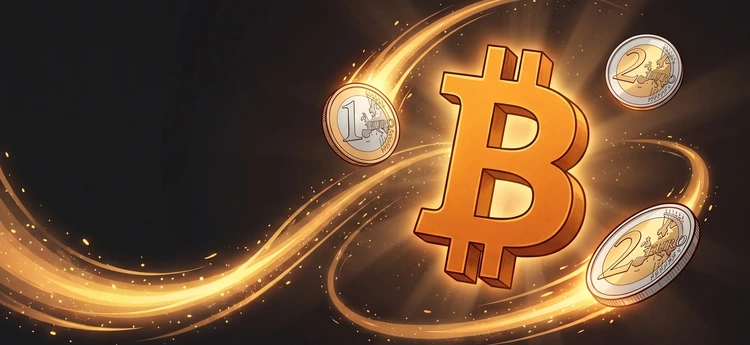
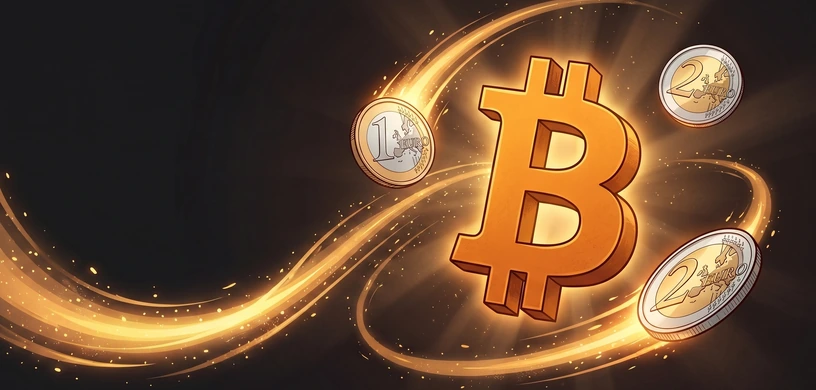
Le card «Da scoprire» crescono, e la misura la dice il CSS
Da 250x115 a 272x130 (decisione di Andrea: «un po' piu' grandi,
soprattutto piu' ALTE»), coi banner rigenerati dagli originali a
816x390. I due numeri sono MISURATI e non scelti a occhio.

IL VINCOLO NON ERA IL DISEGNO: crescendo in altezza non se ne perde,
se ne RECUPERA — gli originali sono 2752x1536 e il ritaglio ne usava
l'82% dell'altezza, adesso l'86% (a 250x115 il fondo della scatola
degli sconti era tagliato, e ora si vede intero). Il limite
dell'originale e' il rapporto 1,792, dove si comincerebbe a tagliare
in LARGHEZZA: siamo a 2,092.

IL VINCOLO E' LA FILA A 320px, e a decidere e' lo SPICCHIO della
seconda card — «il taglio al bordo dice che ce n'e' altre» e' una
promessa che si mantiene solo se resta abbastanza card da vedere. A
272 sono 24px, sopra i 20 che la .cat-strip accetta per la sua quarta
card; a 280 scenderebbero a 16, poco piu' del raggio dell'angolo.

IL PREZZO, misurato: dopo il tocco la griglia sopra la nav a 320x568
passa da 74 a 59px. Lo scroll AL REPARTO non si muove (235px prima e
dopo): quello e' ancorato alla riga «N oggetti», che sta sotto.

LA FASCIA DEL CONTRASTO MIGLIORA invece di peggiorare (11,8 / 12,0 /
14,8 contro 10,7 / 11,9 / 12,9): e' in px CSS mentre il disegno si
scala, quindi copre meno immagine e resta dov'e' scura. Per la stessa
ragione il «capolinea» del P2P si allontana, da 3 a 12px CSS.

E LA PROVA LEGGE LA MISURA DAL CSS invece di ribatterla: erano tre
numeri sparsi (750, 345, e il 115 dentro la fascia) e crescendo la
[…]

diff --git a/miniapp.html b/miniapp.html
@@ -886,12 +886,35 @@
      .cat-tile (griglia, piastrelle-colonna, velo sotto il nome). */
 
   /* ---------- «Da scoprire» ---------- */
-  /* La fila dei banner sotto le categorie: card rettangolari 250x115
+  /* La fila dei banner sotto le categorie: card rettangolari 272x130
      (decisione di Andrea: larghe, da banner — a 320px una quasi piena
      piu' uno spicchio della seconda, il taglio al bordo dice che ce
-     n'e' altre). Il testo sta DENTRO il disegno (750x345, colori
+     n'e' altre). Il testo sta DENTRO il disegno (816x390, colori
      fissi nei due temi come tutto cio' che vive su una foto):
-     l'etichetta la porta l'aria-label. Niente min-height sulla
+     l'etichetta la porta l'aria-label.
+     LA MISURA E' CRESCIUTA (ago 2026, da 250x115: decisione di Andrea
+     «un po' piu' grandi, soprattutto piu' ALTE»), e i due numeri che
+     la fissano sono MISURATI e non scelti a occhio.
+     IL VINCOLO NON E' IL DISEGNO — crescendo in ALTEZZA non se ne
+     perde, se ne RECUPERA: gli originali sono 2752x1536 (rapporto
+     1,792) e il ritaglio ne usava l'82% dell'altezza, adesso l'86%
+     (a 250x115 il fondo della scatola degli sconti era TAGLIATO, e
+     ora si vede intero). Il limite dell'originale e' il rapporto
+     1,792, sotto il quale si comincerebbe a tagliare in LARGHEZZA:
+     siamo a 2,092, lontani. Chi ricrescera' ancora rifaccia quel
+     conto, e sappia che il file a 3x non deve superare 2752 di
+     larghezza — cioe' una card larga 917, che nessuno vorra' mai.
+     IL VINCOLO E' LA FILA A 320px, e a decidere e' lo SPICCHIO della
+     seconda card: «il taglio al bordo dice che ce n'e' altre», qui
+     sopra, e' una promessa che si mantiene solo se resta abbastanza
+     card da vedere. Lo spicchio a 320 e' 296-W — a 272 sono 24px,
+     sopra i 20 che la .cat-strip accetta per la sua quarta card, e il
+     border-radius di 14 non se li mangia tutti. A 280 scenderebbero a
+     16, cioe' poco piu' del raggio: una scheggia, non una card.
+     IL PREZZO E' MISURATO e sta sotto: dopo il tocco la griglia sopra
+     la nav a 320x568 passa da 74 a 59px. Lo scroll AL REPARTO invece
+     non si muove di un pixel (235px prima e dopo) — quello e'
+     ancorato alla riga «N oggetti», che sta SOTTO questa sezione. Niente min-height sulla
      striscia, e la divergenza da .cat-strip e' voluta: le card
      spariscono quando non c'e' l'occasione, e uno spazio riservato
      per una cosa assente sarebbe un buco. */
@@ -905,8 +928,8 @@
     overscroll-behavior-x:contain;scrollbar-width:none;
     padding:8px var(--pad) 6px}
   .scoprire-strip::-webkit-scrollbar{display:none}
-  .scoprire-card{flex:0 0 auto;position:relative;width:250px;
-    aspect-ratio:250/115;border-radius:14px;overflow:hidden;
+  .scoprire-card{flex:0 0 auto;position:relative;width:272px;
+    aspect-ratio:272/130;border-radius:14px;overflow:hidden;
     background:var(--cat-fondo);cursor:pointer}
   .scoprire-card:active{transform:translateY(1px)}
   /* L'anello e' quello della card categoria accesa: stesso gesto
@@ -931,8 +954,11 @@
      l'origine al centro uno scale>=1 puo' solo ritagliare, mai
      scoprire, quindi il respiro parte da scale(1); e l'onda ruota
      un'immagine GIA' ingrandita del 5% — la rotazione di 0.8° scopre
-     negli angoli ~1.8px (250/2 x sin 0.8°), il 5% ne copre quasi 3
-     sul lato corto. Chi alza i gradi rifa' quel conto. */
+     negli angoli ~1,9px (272/2 x sin 0.8°), il 5% ne copre 3,25 sul
+     lato corto (130). Chi alza i gradi rifa' quel conto, che in
+     forma generale e' W/H < (scale-1)/sin(θ) = 3,58: crescendo in
+     ALTEZZA il margine migliora — col rapporto sceso da 2,17 a 2,09
+     siamo piu' al sicuro di prima, non meno. */
   .scoprire-card[data-id="lampo"] img{
     animation:sc-onda 5s ease-in-out infinite}
   .scoprire-card[data-id="sconto"] img{
@@ -1005,8 +1031,11 @@
      numeri: spostare a destra fa DUE lavori, allontana dalla scia che
      sale a destra e scavalca la sua coda in basso a sinistra (a
      left:14 un corpo da 21 non passerebbe, a left:18 si). Il filo del
-     disegno sta a x=289 sull'immagine; qui l'inchiostro vero finisce
-     a 166 e la fascia sorvegliata a 258, cioe' 10px CSS di margine.
+     disegno sta a x=318 sull'immagine (816 di larghezza); qui la
+     fascia sorvegliata finisce a 282, cioe' 12px CSS di margine —
+     ed e' CRESCIUTO da quando la card e' piu' grande: erano 3px a
+     250x115, e quel «capolinea» si e' allontanato da solo, perche'
+     la fascia e' in px CSS mentre la scia si scala col disegno.
      Chi lo sposta ancora o lo ingrandisce lo sente dalla CI — la
      fascia del contrasto legge QUESTA regola, non piu' la sola base:
      senza, avrebbe continuato a guardare dove il titolo stava ieri. */

diff --git a/prove.py b/prove.py
@@ -26849,13 +26849,31 @@ def prove_scoprire():
     BANNER = {"lampo.webp": "Offerte a tempo",
               "sconto.webp": "Sconti dei negozi",
               "p2p.webp": "P2P"}
+    # LA MISURA DELLA CARD SI LEGGE DAL CSS, e non si ribatte qui: e'
+    # la stessa regola che la fascia del contrasto dichiara gia' per
+    # se' («la geometria viene dal CSS e non da qui»), portata anche
+    # alla misura dei file. Erano tre numeri sparsi — 750, 345 e il
+    # 115 dentro la fascia — e il giorno che la card e' cresciuta
+    # andavano mossi tutti e tre a mano; scritti qui, chi ritocca il
+    # CSS senza rigenerare i banner non lo sente da nessuna parte,
+    # e object-fit:cover gli ritaglia il disegno in silenzio.
+    _mis = re.search(r"\.scoprire-card\{[^}]*?width:(\d+)px[^}]*?"
+                     r"aspect-ratio:(\d+)/(\d+)", mini, re.S)
+    prova("la card dichiara la sua misura nel CSS", True, bool(_mis))
+    CARD_W, CARD_H = int(_mis.group(1)), int(_mis.group(3))
+    # ...e la larghezza dell'aspect-ratio E' la width, o i file
+    # sarebbero tagliati su un rapporto che la card non ha
+    prova("...e il rapporto combacia con la larghezza",
+          CARD_W, int(_mis.group(2)))
     for _f in BANNER:
         prova(f"il banner {_f} esiste", True,
               os.path.exists(os.path.join("assets", "scoprire", _f)))
-    # ...e sono ESATTAMENTE 750x345, il triplo della card 250x115: un
+    # ...e sono ESATTAMENTE 816x390, il triplo della card 272x130: un
     # ratio diverso verrebbe ritagliato da object-fit:cover in
     # silenzio, e il disegno di Andrea perderebbe i bordi senza che
-    # nessuno lo veda.
+    # nessuno lo veda. I tre numeri (CARD_W, CARD_H e il triplo) sono
+    # LA STESSA misura del CSS: chi cresce le card li muove insieme,
+    # o la prova diventa rossa il giro dopo.
     # i titoli dell'elenco sono quelli VERI del catalogo, o la
     # fascia del contrasto (qui sotto, derivata dal titolo)
     # misurerebbe la lunghezza di un titolo inventato
@@ -26863,7 +26881,7 @@ def prove_scoprire():
           all(f"testo: '{_t}'" in mini for _t in BANNER.values()))
     try:
         from PIL import Image as _Im
-        prova("...e misurano 750x345", [(750, 345)] * len(BANNER),
+        prova("...e misurano 816x390", [(CARD_W * 3, CARD_H * 3)] * len(BANNER),
               [_Im.open(os.path.join("assets", "scoprire", _f)).size
                for _f in BANNER])
     except ImportError:
@@ -27287,6 +27305,23 @@ def prove_scoprire():
           (True, True),
           ("_ov = _blocco('.scoprire-card[data-id=" in _io,
            '_num(_ov, "left:", _num(_base, "left:"))' in _io))
+    # ...e la fascia LARGA si deriva dall'ALTEZZA invece di portare due
+    # numeri in coordinate immagine (erano 30 e 315 su 345). Scritti a
+    # mano resterebbero a guardare dove il titolo stava alla misura di
+    # IERI, e il giorno della card piu' grande non se ne accorgerebbe
+    # nessuno: una fascia piu' STRETTA del vero passa sempre, ed e' il
+    # modo silenzioso in cui questa prova smetterebbe di provare
+    # qualcosa. Stessa ragione della riga qui sopra, sull'altro asse.
+    # ⚠ DUE trappole in una riga, e le ho prese tutte e due scrivendo
+    # questa prova. 1) Si guarda la REGIONE della fascia e non tutto
+    # il file, o la prova trova la stringa dentro SE STESSA e resta
+    # rossa per sempre. 2) E si prende l'ULTIMA occorrenza dell'ancora,
+    # perche' la PRIMA e' la riga qui sotto — quella che la cerca.
+    _fascia = _io[_io.rindex("_QUIETE = 3, CARD_H"):]
+    prova("...e la fascia larga si deriva dall'altezza della card",
+          (True, False),
+          ("(_ALTA - _QUIETE) * _F" in _fascia,
+           "_y1 = 30, 315" in _fascia))
     # tre: l'aria-label della card, la riserva e il titolo — un
     # quarto posto sarebbe un doppione da guardare
     prova("...e il testo e' quello del catalogo, tre volte", 3,
@@ -27310,9 +27345,12 @@ def prove_scoprire():
     # fascia piu' larga. Oltre la scatola il titolo va a capo, e li'
     # si torna alla fascia conservativa di sempre (tutta l'altezza),
     # perche' quante righe diventino non lo sappiamo.
-    # Misurati: 11.4 (lampo) e 12.0 (sconto) sulla fascia piena,
-    # 14.4 (p2p) sulla sua riga — un ridisegno che scalda la fascia
-    # di una card si sente da qui.
+    # Misurati a 272x130: 11,8 (lampo) e 12,0 (sconto) sulla fascia
+    # piena, 14,8 (p2p) sulla sua riga — un ridisegno che scalda la
+    # fascia di una card si sente da qui. Crescendo la card i tre
+    # sono MIGLIORATI (erano 10,7 / 11,9 / 12,9 a 250x115): la fascia
+    # e' in px CSS mentre il disegno si scala, quindi in proporzione
+    # copre meno immagine e resta piu' a sinistra, dove e' scura.
     try:
         from PIL import Image as _Im
 
@@ -27350,7 +27388,15 @@ def prove_scoprire():
 
         _base = _blocco(".sc-titolo{")
         _largo, _passo = _num(_base, "width:"), _num(_base, "line-height:")
-        _F, _ALTA, _M = 3, 115, 12      # 750/250; la card; il margine dell'onda
+        # _F e' il triplo dei file, _ALTA la card, _M il margine
+        # dell'onda. _QUIETE sono i 10px CSS di margine sopra e sotto
+        # della fascia larga: erano scritti a mano in coordinate
+        # IMMAGINE (30 e 315 su 345), cioe' due numeri che il giorno
+        # della card piu' grande sarebbero rimasti a guardare dove il
+        # titolo stava ieri. Derivati, la fascia e' la STESSA e non
+        # invecchia piu': non e' un allentamento, e' la stessa regola
+        # scritta in modo che segua il CSS come gia' fa tutto il resto.
+        _F, _ALTA, _M, _QUIETE = 3, CARD_H, 12, 10
         for _f, _testo in BANNER.items():
             _ov = _blocco('.scoprire-card[data-id="%s"] .sc-titolo{'
                           % _f.rsplit(".", 1)[0])
@@ -27366,7 +27412,7 @@ def prove_scoprire():
                 _y1 = round((_ALTA + _h) / 2 * _F) + _M
                 _x1 = round((_sx + _w) * _F) + _M
             else:                       # va a capo: la fascia di sempre
-                _y0, _y1 = 30, 315
+                _y0, _y1 = _QUIETE * _F, (_ALTA - _QUIETE) * _F
                 _x1 = round((_sx + _largo) * _F) + _M
             _lmax = max(_lum(_im.getpixel((x, y)))
                         for y in range(_y0, _y1, 3)
